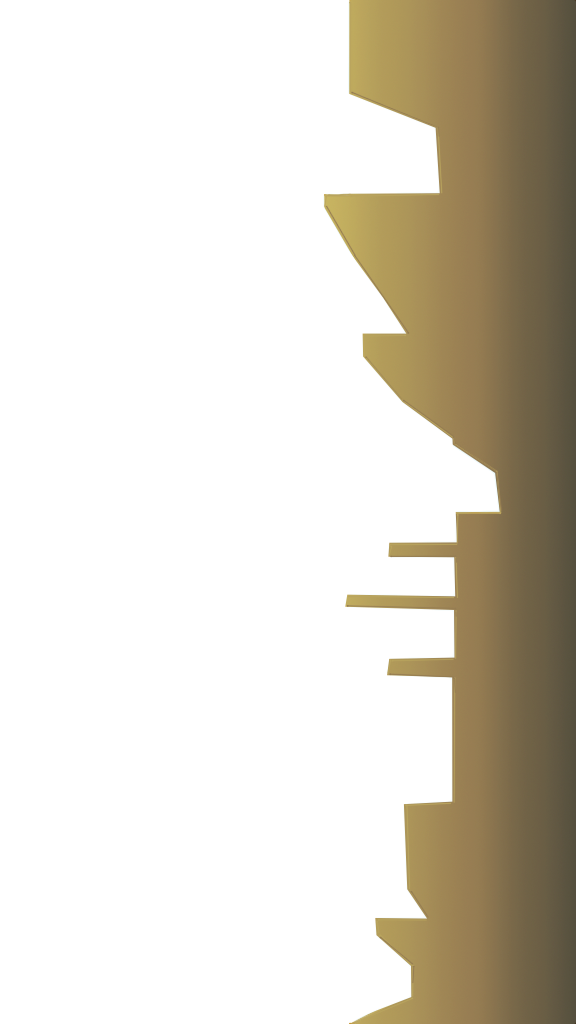
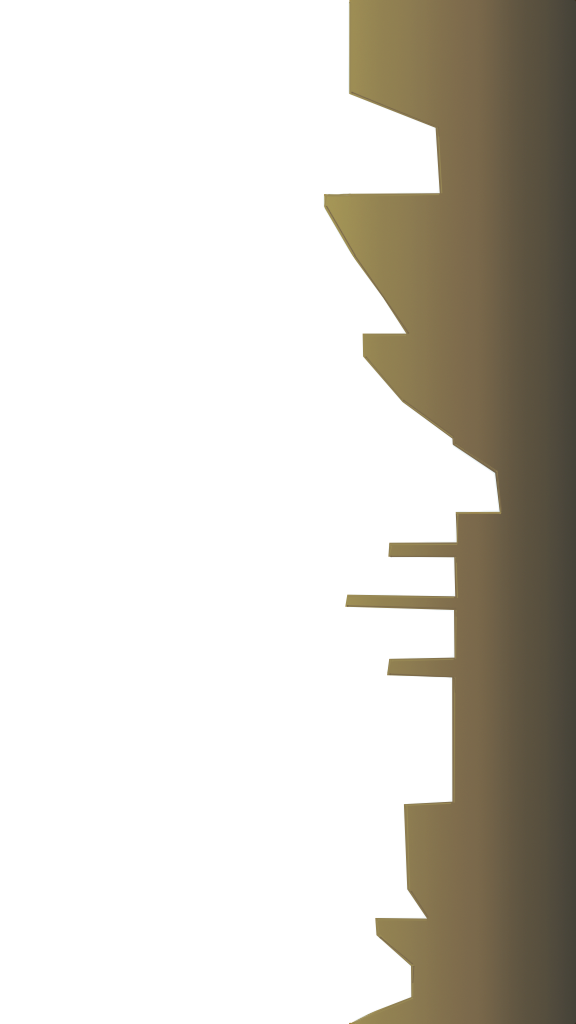
* parallax less distracting

Changed region(s): [[0.5625, 0.0, 0.875, 1.0]]

diff --git a/src/views/helpers/Parallax.js b/src/views/helpers/Parallax.js
@@ -53,7 +53,7 @@ var parallaxConfig = [
 	},
 	{
 		name: "lax_3",
-		speed: 0.55,
+		speed: 0.30,
 		zIndex: 50,
 		pieces: [
 			{
